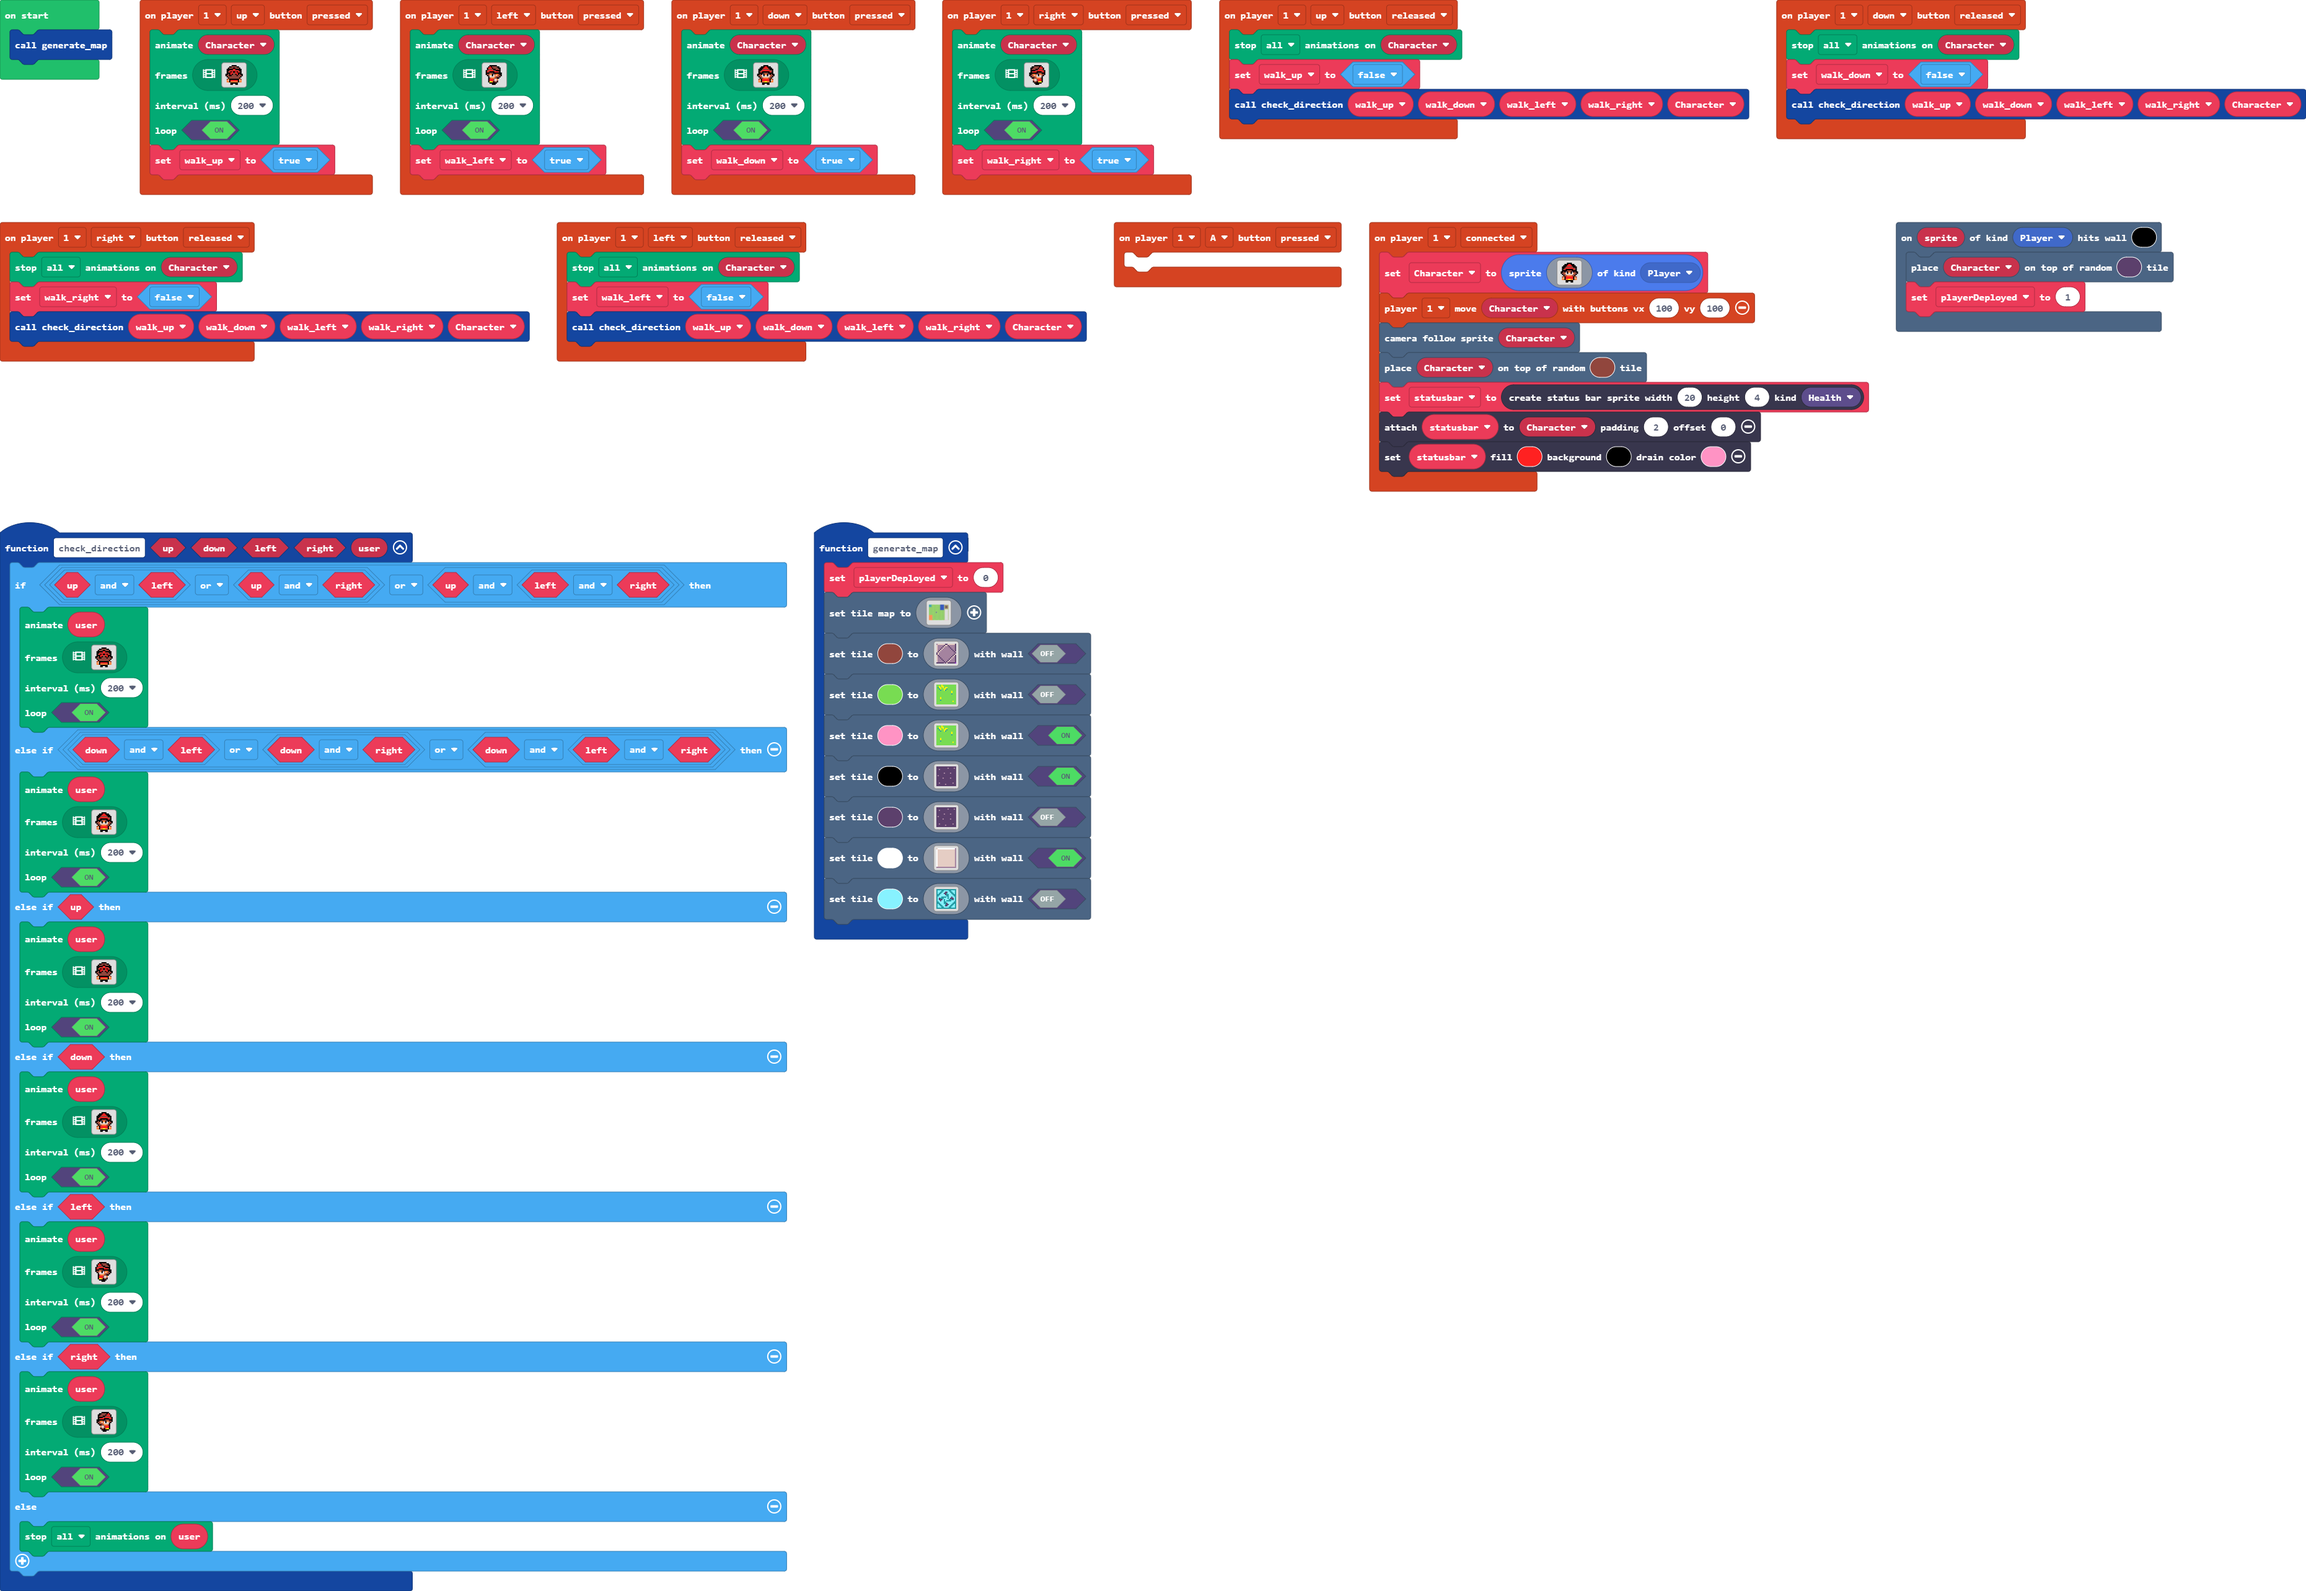
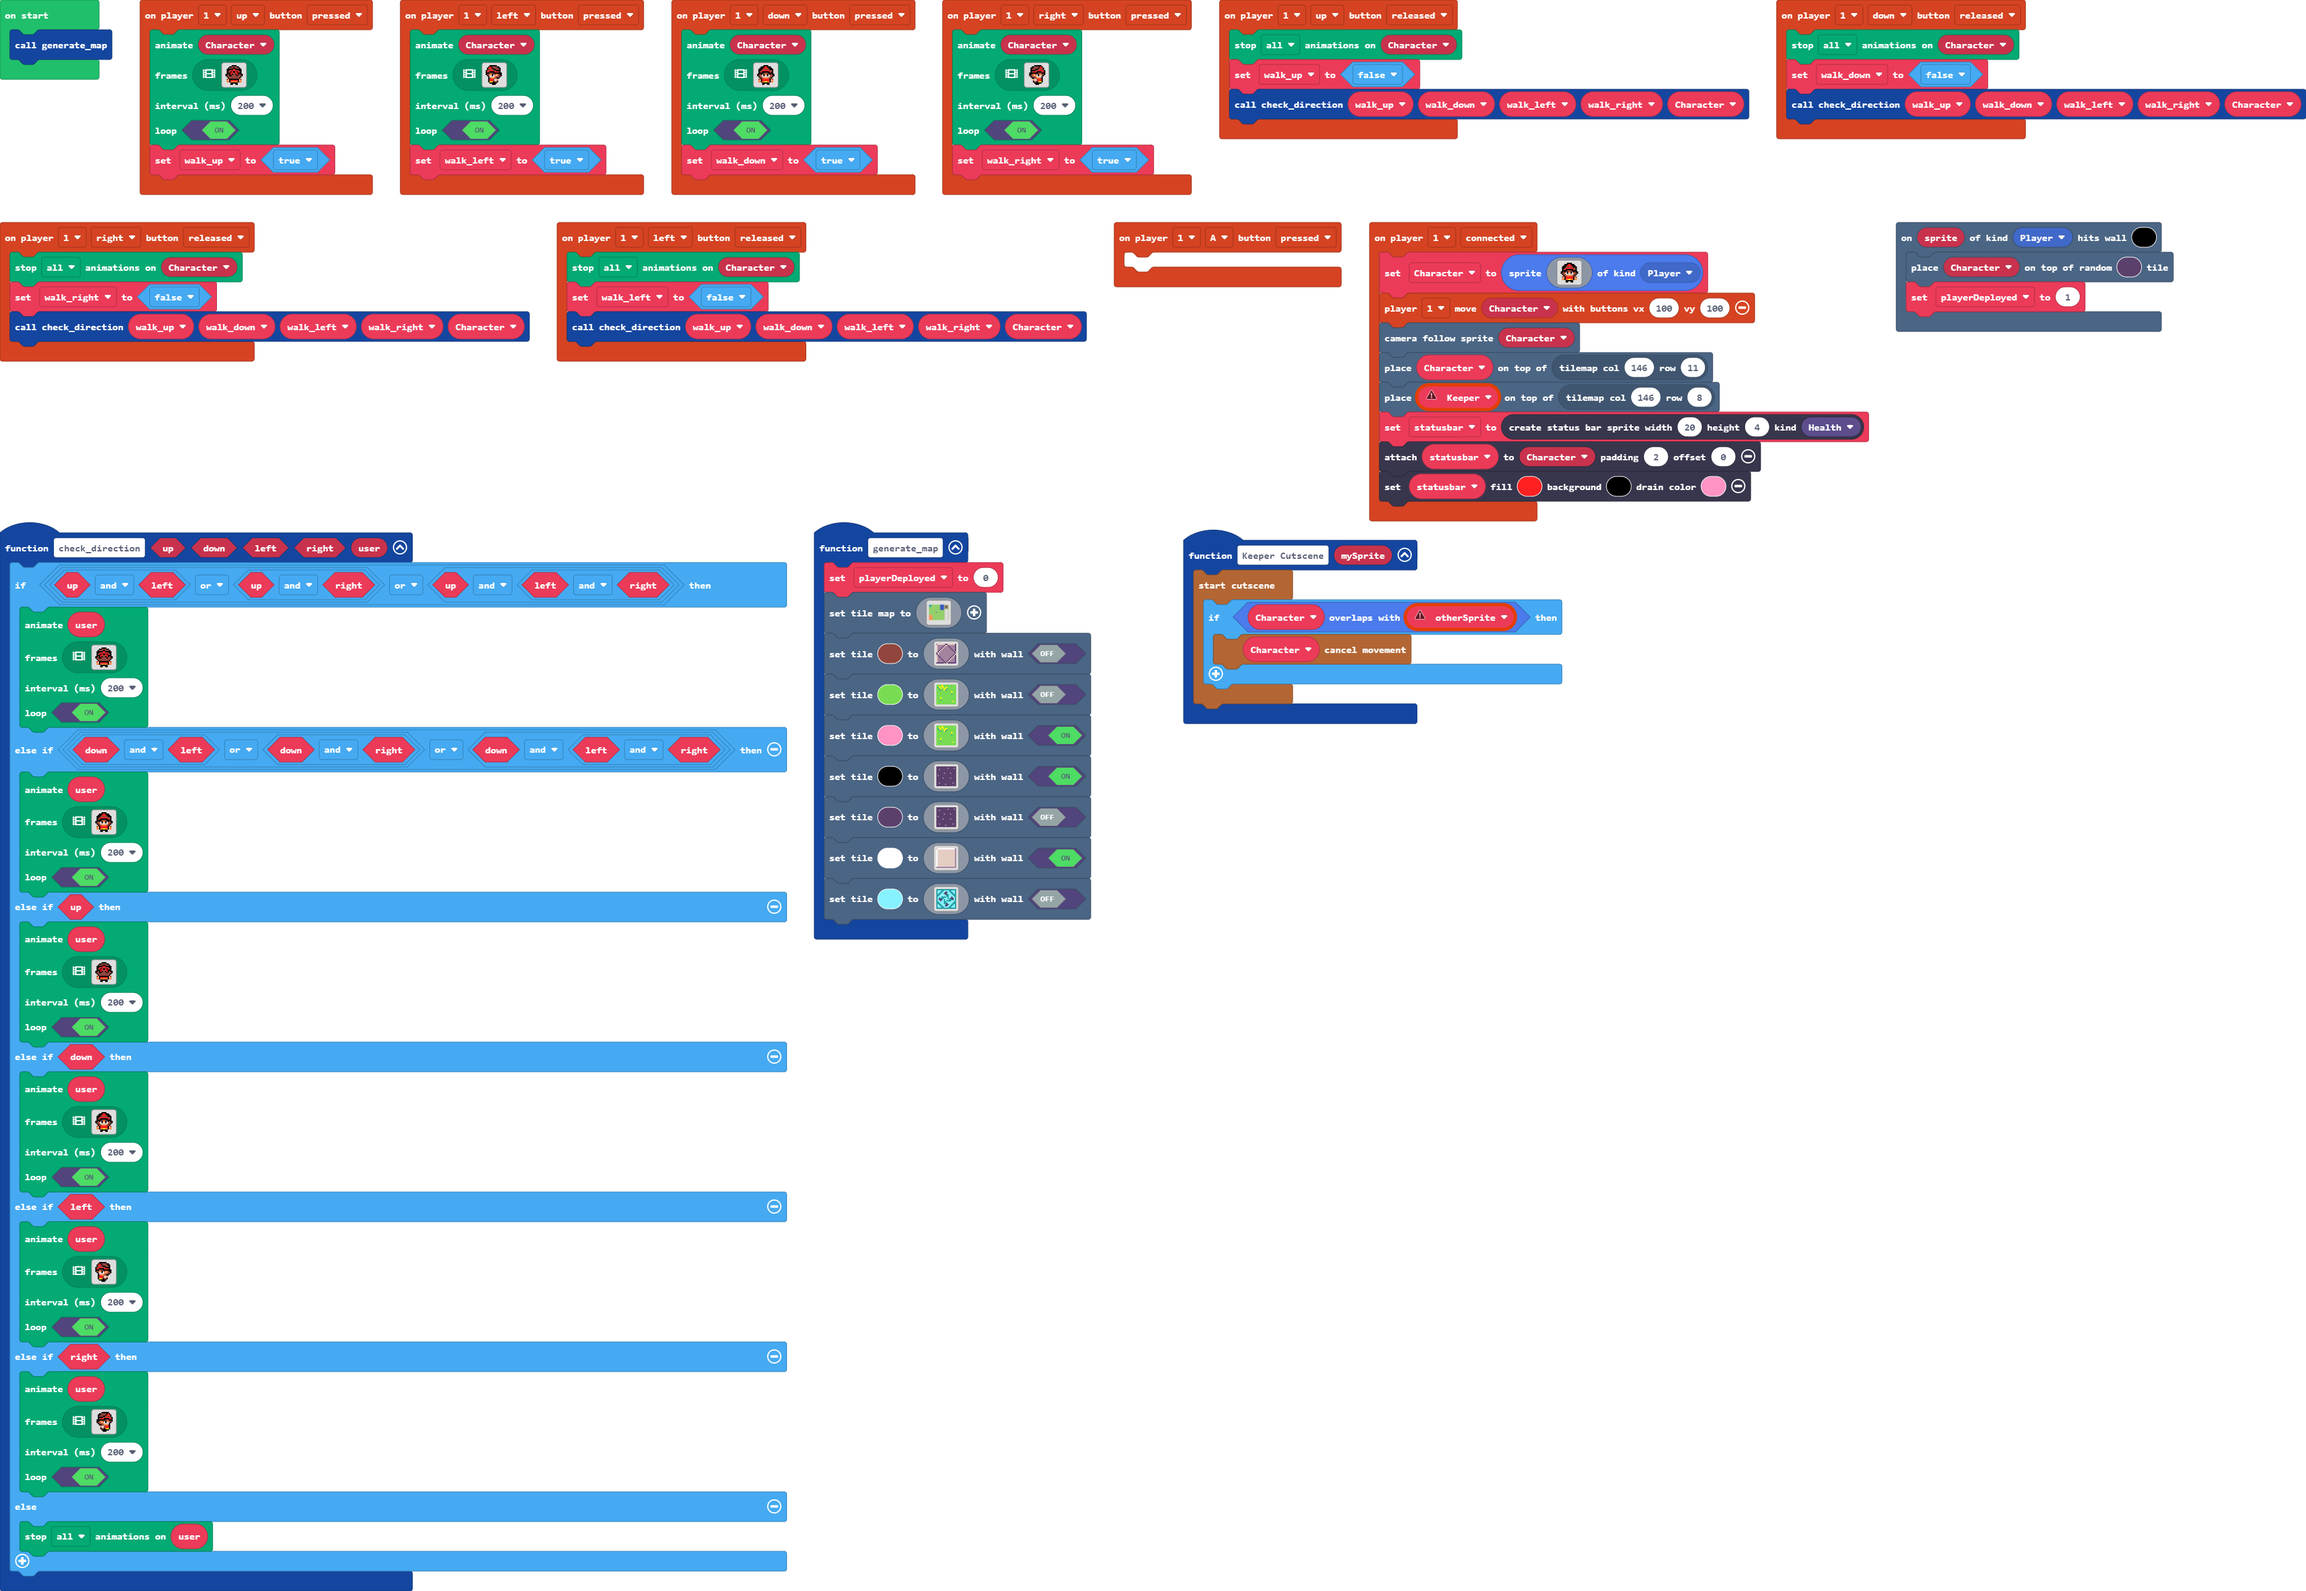
Update main.blocks, main.ts, images.g.jres, images.g.ts

Changed region(s): [[0.4988, 0.2181, 0.8105, 0.4673]]

diff --git a/main.ts b/main.ts
@@ -7,6 +7,14 @@ enum ActionKind {
 namespace SpriteKind {
     export const Object = SpriteKind.create()
 }
+function Keeper_Cutscene (mySprite: Sprite) {
+    story.startCutscene(function () {
+        let otherSprite: Sprite = null
+        if (Character.overlapsWith(otherSprite)) {
+            story.cancelSpriteMovement(Character)
+        }
+    })
+}
 controller.player1.onButtonEvent(ControllerButton.Left, ControllerButtonEvent.Released, function () {
     animation.stopAnimation(animation.AnimationTypes.All, Character)
     walk_left = false
@@ -644,6 +652,7 @@ controller.player1.onButtonEvent(ControllerButton.Right, ControllerButtonEvent.R
     check_direction(walk_up, walk_down, walk_left, walk_right, Character)
 })
 controller.player1.onEvent(ControllerEvent.Connected, function () {
+    let Keeper: Sprite = null
     Character = sprites.create(img`
         . . . . . . f f f f . . . . . . 
         . . . . f f f 2 2 f f f . . . . 
@@ -664,7 +673,8 @@ controller.player1.onEvent(ControllerEvent.Connected, function () {
         `, SpriteKind.Player)
     controller.player1.moveSprite(Character, 100, 100)
     scene.cameraFollowSprite(Character)
-    scene.placeOnRandomTile(Character, 14)
+    tiles.placeOnTile(Character, tiles.getTileLocation(146, 11))
+    tiles.placeOnTile(Keeper, tiles.getTileLocation(146, 8))
     statusbar = statusbars.create(20, 4, StatusBarKind.Health)
     statusbar.attachToSprite(Character, 2, 0)
     statusbar.setColor(2, 15, 3)

diff --git a/images.g.ts b/images.g.ts
@@ -324,6 +324,25 @@ c c e d d 4 4 e 4 4 4 f . . . .
 . . . f f f f f f f f . . . . . 
 . . . f f f . . f f . . . . . . 
 `;
+            case "image11":
+            case "myImage":return img`
+. . . . . . . . . . . . . . . . 
+. . . . . . . . . . . . . . . . 
+. . . . . 1 1 1 1 1 1 . . . . . 
+. . . . 1 d d d d d 1 1 . . . . 
+. . . 1 1 d d d d d d 1 1 . . . 
+. . 1 1 d d 1 d d 1 d d d 1 . . 
+. . 1 1 e d f d d f d d d 1 . . 
+. . 1 d d d f d d f d d d 1 . . 
+. . 1 e d 1 1 1 1 1 1 d e 1 . . 
+. . . 1 e 1 f f f f 1 e 1 . . . 
+. . . . 1 1 1 1 1 1 1 1 1 . . . 
+. . e d 1 1 2 1 1 2 1 1 d e . . 
+. . d 2 . 2 2 1 1 2 2 . 2 d . . 
+. . d d . 2 2 2 2 2 2 . d d . . 
+. . . . . 2 2 2 2 2 2 . . . . . 
+. . . . 2 2 d 2 2 d 2 2 . . . . 
+`;
         }
         return null;
     })
